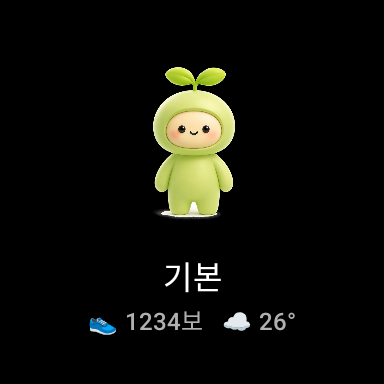
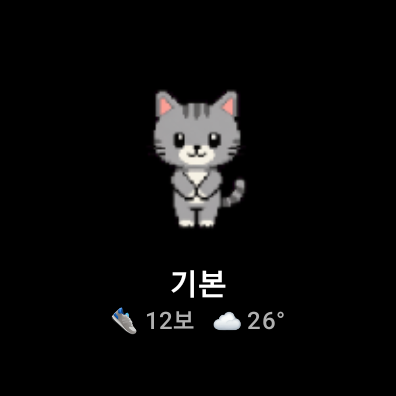
fix(android): 워치 이미지 전달 누락 — 이미지 DataItem 에 updatedAt 추가
워치 신규 설치 시 동일 내용 dedupe 로 캐릭터 PNG 가 전달 안 되던 문제.
실기기(Galaxy Watch 4)에서 회색 고양이 캐릭터 표시 end-to-end 확인.

Claude-Session: https://claude.ai/code/session_01LMCzTSn8Z8ZBUe5tCjjdTB

Changed region(s): [[0.375, 0.1562, 0.625, 0.5938], [0.2188, 0.6875, 0.7812, 0.875]]

diff --git a/android/app/src/main/java/com/seoyoung/withu/watch/WearSyncManager.kt b/android/app/src/main/java/com/seoyoung/withu/watch/WearSyncManager.kt
@@ -55,7 +55,9 @@ object WearSyncManager {
                     dataMap.putString("state", state.raw)
                     dataMap.putInt("frame", 0)
                     dataMap.putAsset("image", Asset.createFromBytes(bytes))
-                }.asPutDataRequest()
+                    // 워치가 새로 설치돼도 확실히 재전달되게 변화 필드 포함 (dedupe 로 전달 누락 방지).
+                    dataMap.putLong("updatedAt", msg.timestamp)
+                }.asPutDataRequest().setUrgent()
                 Tasks.await(client.putDataItem(imgReq))
             }
         }
